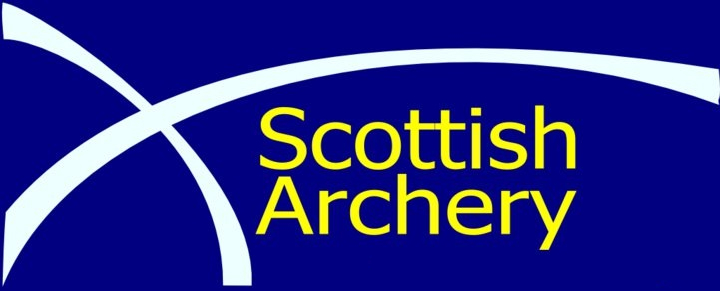
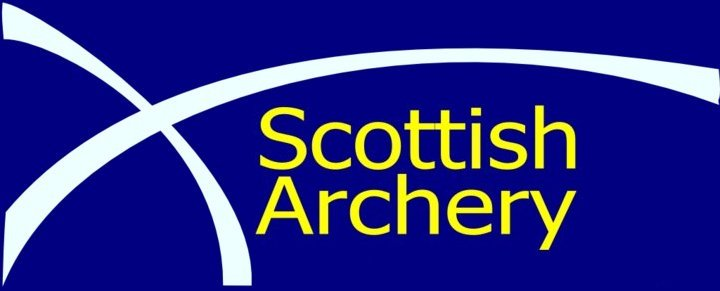
optimised images and index file

diff --git a/index.html b/index.html
@@ -110,30 +110,12 @@
                   </div>
                 -->
                 </div>
+
+
+          <!-- Governing body links -->       
             <hr class="light my-4">
             <br/>
-            <p class="text-faded mb-4">Napier Archery is an active member of several UK based archery organisations.</p>
-                     
-
-            <!-- Governing body links for large screens 
-              <div class="d-none d-md-block">
-                <div class="row">
-                    
-                    <div class="col-lg-4 col-md-4 col-sm-4 col-xs-4 mx-auto text-center"><br/>
-                      <a class="btn btn-white btn-xl js-scroll-trigger" href="https://www.archerygb.org" target="_blank" rel="noopener"><img class="img-responsive" src="img/agb-banner.jpg" width = "100%" alt="archery GB" ></a>
-                    </div> 
-                    <div class="col-lg-4 col-md-4 col-sm-4 col-xs-4 mx-auto text-center"><br/>
-                      <a class="btn btn-blue btn-xl js-scroll-trigger" href="http://scottisharchery.org.uk/" target="_blank" rel="noopener"><img class="img-responsive" src="img/saa-banner.jpg" width = "100%" alt="Scottish Archery Association" ></a>
-                      <br/>
-                    </div>
-                    <div class="col-lg-4 col-md-4 col-sm-4 col-xs-4 mx-auto text-center"><br/>
-                      <a class="btn btn-white btn-xl js-scroll-trigger" href="http://scottishfieldarchery.scot/" target="_blank" rel="noopener"><img class="img-responsive" src="img/sfaa-banner.jpg" width = "100%" alt="Scottish Field Archery Association" ></a>
-                      <br/>
-                    </div>
-                </div>
-              </div>
-            -->  
-
+            <p class="text-faded mb-4">Napier Archery is an active member of several UK based archery organisations.</p> 
             <span class="mx-auto text-center d-block">
                 <a  href="https://www.archerygb.org" target="_blank" rel="noopener"><img class="img-responsive img-rounded-50" src="img/agb-banner.jpg" width = "45%" alt="archery GB" ></a>
                 &nbsp;  
